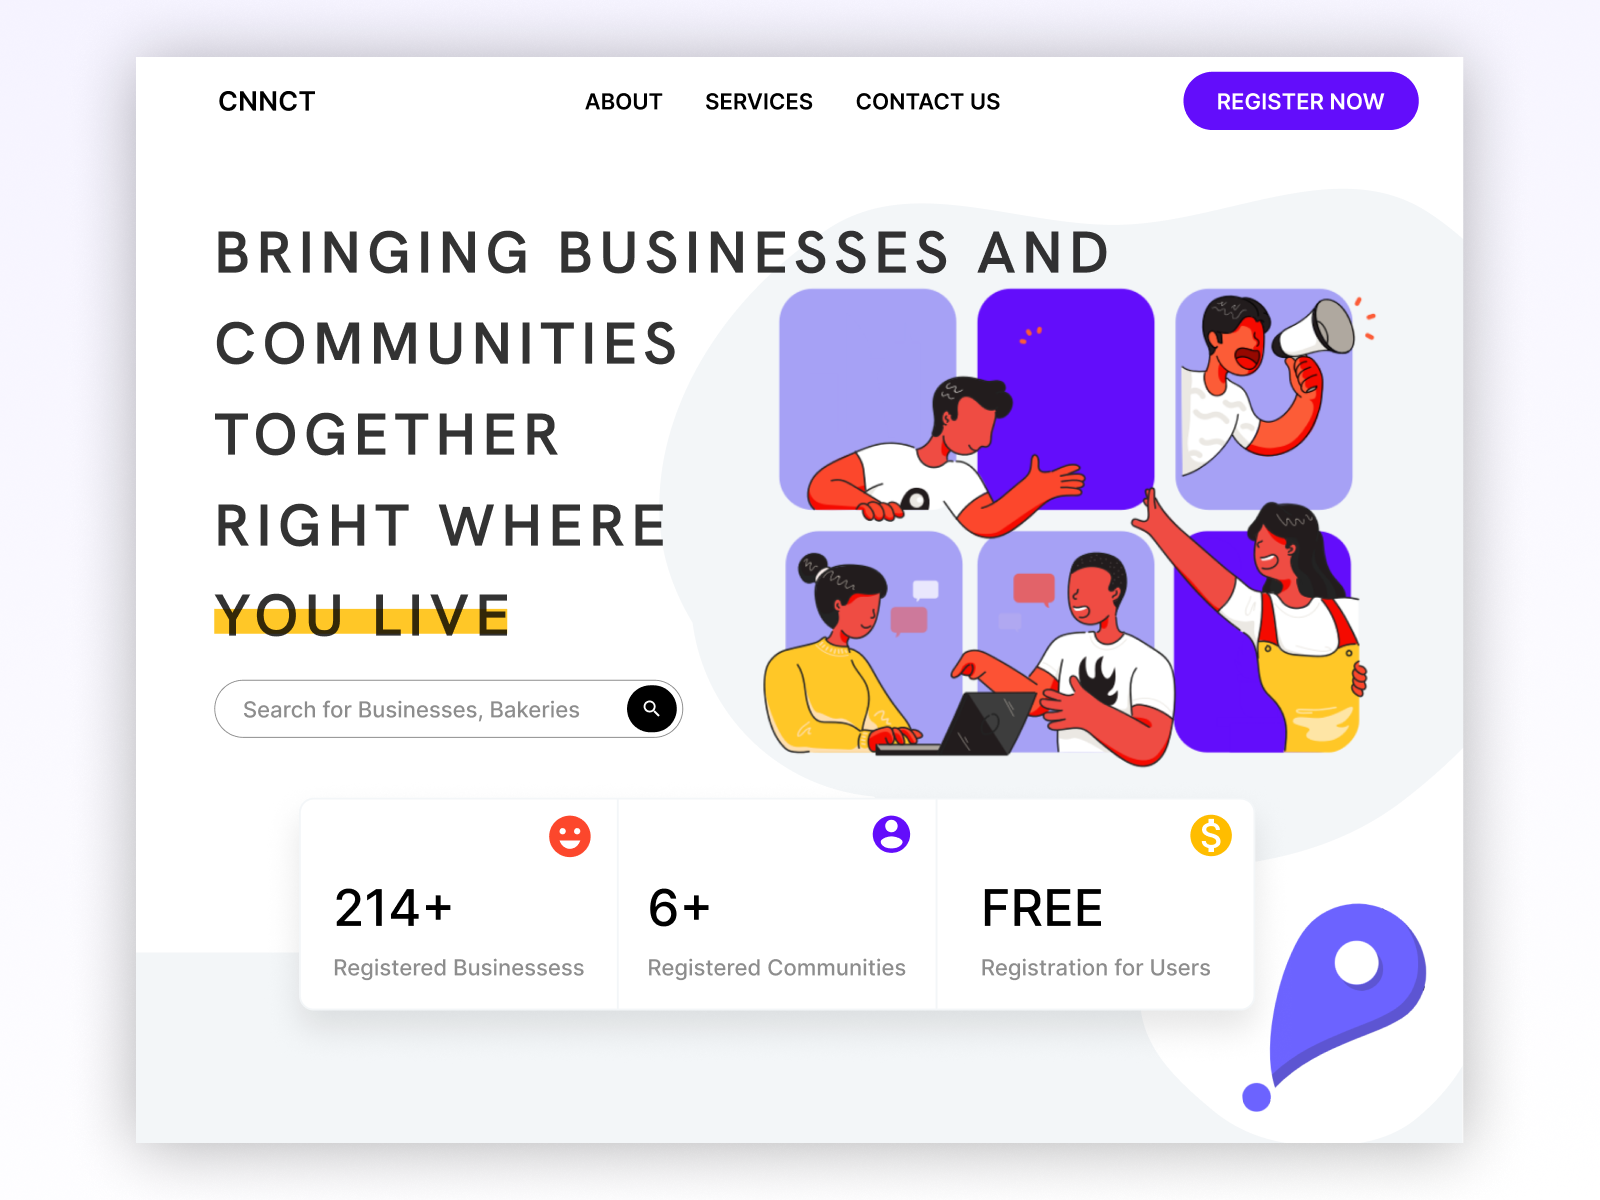
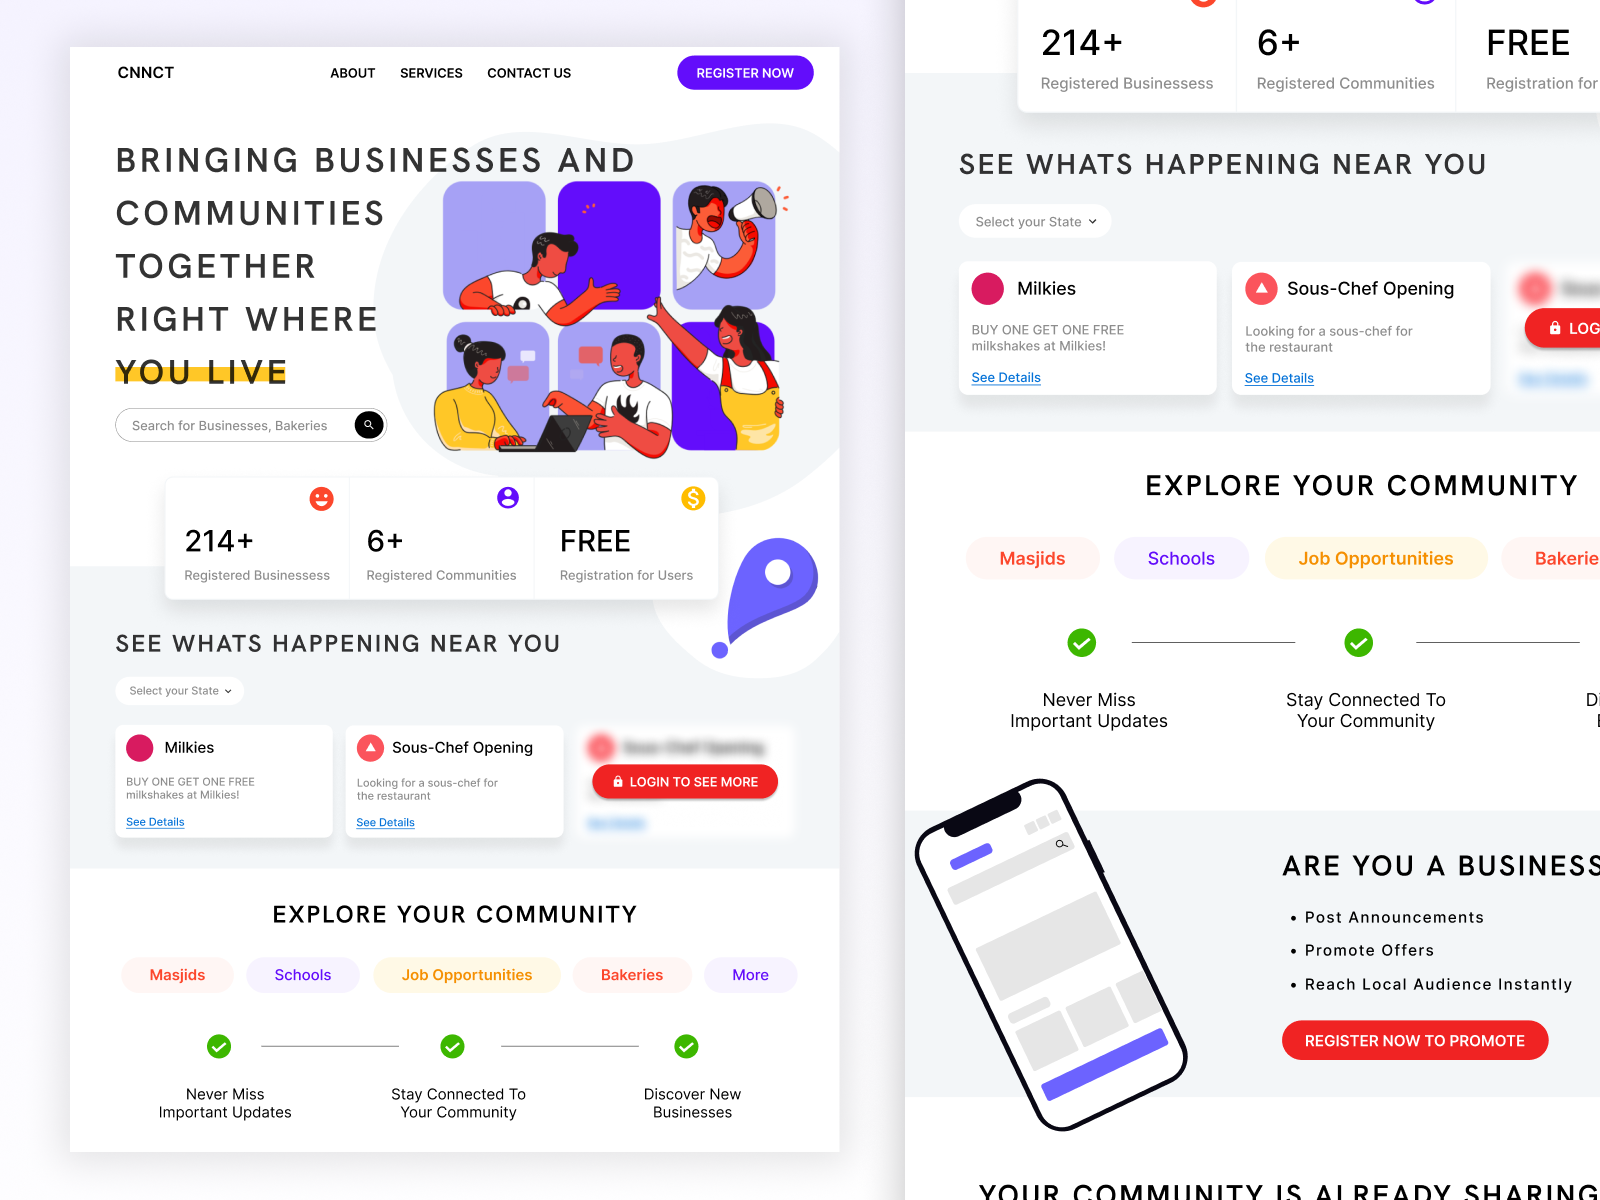
projects and dribbble updates

diff --git a/src/components/Projects.jsx b/src/components/Projects.jsx
@@ -3,11 +3,14 @@ import {
   Instagram,
   LucidePanelRightOpen,
   Figma,
+  Dribbble,
 } from "lucide-react";
 import { Link } from "react-router-dom";
 import travelSite from "../assets/imgs/projectPics/travelSite.png";
 import communitySite from "../assets/imgs/projectPics/communitySite.png";
 import janSite from "../assets/imgs/projectPics/janSite.png";
+import eduSite from "../assets/imgs/projectPics/eduSite.png";
+import realEstateSite from "../assets/imgs/projectPics/realEstateSite.png";
 
 const badgeColors = {
   WebDev: "#00FFF6",
@@ -19,9 +22,34 @@ const badgeColors = {
 
 const projects = [
   {
+    title: "Education Website",
+    img: eduSite,
+    drib: "https://dribbble.com/shots/27755289-Education-Website-Design",
+    figma:
+      "https://www.figma.com/design/nJfPRYF40JiArt6lp5F1A6/Legacy-website?node-id=0-1&p=f&t=zeUlpAXKgWrNHhT6-0",
+    description:
+      "A vibrant and playful education landing page for a communication coaching program focused on public speaking, confidence, articulation, and self-expression.",
+    badges: [{ label: "Figma", category: "WebDev" }],
+  },
+  {
+    title: "Travel Site",
+    description:
+      "A modern landing page designed for a travel site, inspired by minimal and eye-catching visuals",
+    link: "kalm",
+    drib: "https://dribbble.com/shots/27213660-Tropical-Travel-Guide-Website",
+    img: travelSite,
+    externalLink: "https://travelsrilanka.vercel.app/",
+    badges: [
+      { label: "Figma", category: "WebDev" },
+      { label: "ReactJS", category: "WebDev" },
+      { label: "TailwindCSS", category: "WebDev" },
+    ],
+  },
+  {
     title: "JAN",
     slug: "jan",
     img: janSite,
+    drib: "https://dribbble.com/shots/27167248-Minimal-Skincare-E-Commerce-Website-Design",
     figma:
       "https://www.figma.com/design/mwiP3znj8HPL7oW0ufmOR9/E-Commerce-website?node-id=3-648&t=KZNWgRJ823Xts7WS-1",
     description:
@@ -32,26 +60,22 @@ const projects = [
     ],
   },
   {
+    title: "Real Estate Site",
+    description:
+      "A modern real estate web experience focused on simplicity, clarity, and premium aesthetics.",
+    drib: "https://dribbble.com/shots/27297785-Modern-Real-Estate-Platform-Design",
+    img: realEstateSite,
+    badges: [{ label: "Figma", category: "WebDev" }],
+  },
+  {
     title: "Community Portal ",
     img: communitySite,
+    drib: "https://dribbble.com/shots/27132326-Community-Platform-Landing-Page",
     description:
       "The landing page for a website to connect businesses and individuals in a community.",
     slug: "landingDesign",
     link: "kalm",
     badges: [{ label: "Figma", category: "WebDev" }],
-  },
-  {
-    title: "Travel Site",
-    description:
-      "A modern landing page designed for a travel site, inspired by minimal and eye-catching visuals",
-    link: "kalm",
-    img: travelSite,
-    externalLink: "https://travelsrilanka.vercel.app/",
-    badges: [
-      { label: "Figma", category: "WebDev" },
-      { label: "ReactJS", category: "WebDev" },
-      { label: "TailwindCSS", category: "WebDev" },
-    ],
   },
   {
     title: "KALM.",
@@ -153,6 +177,15 @@ export const Projects = () => {
                         onClick={(e) => e.stopPropagation()}
                       >
                         <Figma />
+                      </a>
+                    )}
+                    {project.drib && (
+                      <a
+                        href={project.drib}
+                        target="_blank"
+                        onClick={(e) => e.stopPropagation()}
+                      >
+                        <Dribbble />
                       </a>
                     )}
                   </div>

diff --git a/src/components/ContactMe.jsx b/src/components/ContactMe.jsx
@@ -1,4 +1,4 @@
-import { Github, Linkedin } from "lucide-react";
+import { Github, Linkedin, Dribbble } from "lucide-react";
 import { useState, useRef } from "react";
 import emailjs from "@emailjs/browser";
 import code from "../assets/imgs/code.png";
@@ -43,7 +43,7 @@ export const ContactMe = () => {
           to_email: "jameelahafi@gmail.com",
           message: `Message from: ${form.name} <${form.email}>\n\n${form.message}`,
         },
-        "VkOltFMV6wruEUYUe"
+        "VkOltFMV6wruEUYUe",
       )
       .then(
         () => {
@@ -60,7 +60,7 @@ export const ContactMe = () => {
           setLoading(false);
           alert("Failed to send email");
           console.log(error);
-        }
+        },
       );
   };
 
@@ -104,6 +104,14 @@ export const ContactMe = () => {
                 className="p-2 rounded-md bg-tertiary-light"
               >
                 <Linkedin />
+              </a>
+              <a
+                href="https://dribbble.com/jameela-hafi"
+                target="_blank"
+                rel="noopener noreferrer"
+                className="p-2 rounded-md bg-tertiary-light"
+              >
+                <Dribbble />
               </a>
             </div>
             <img
